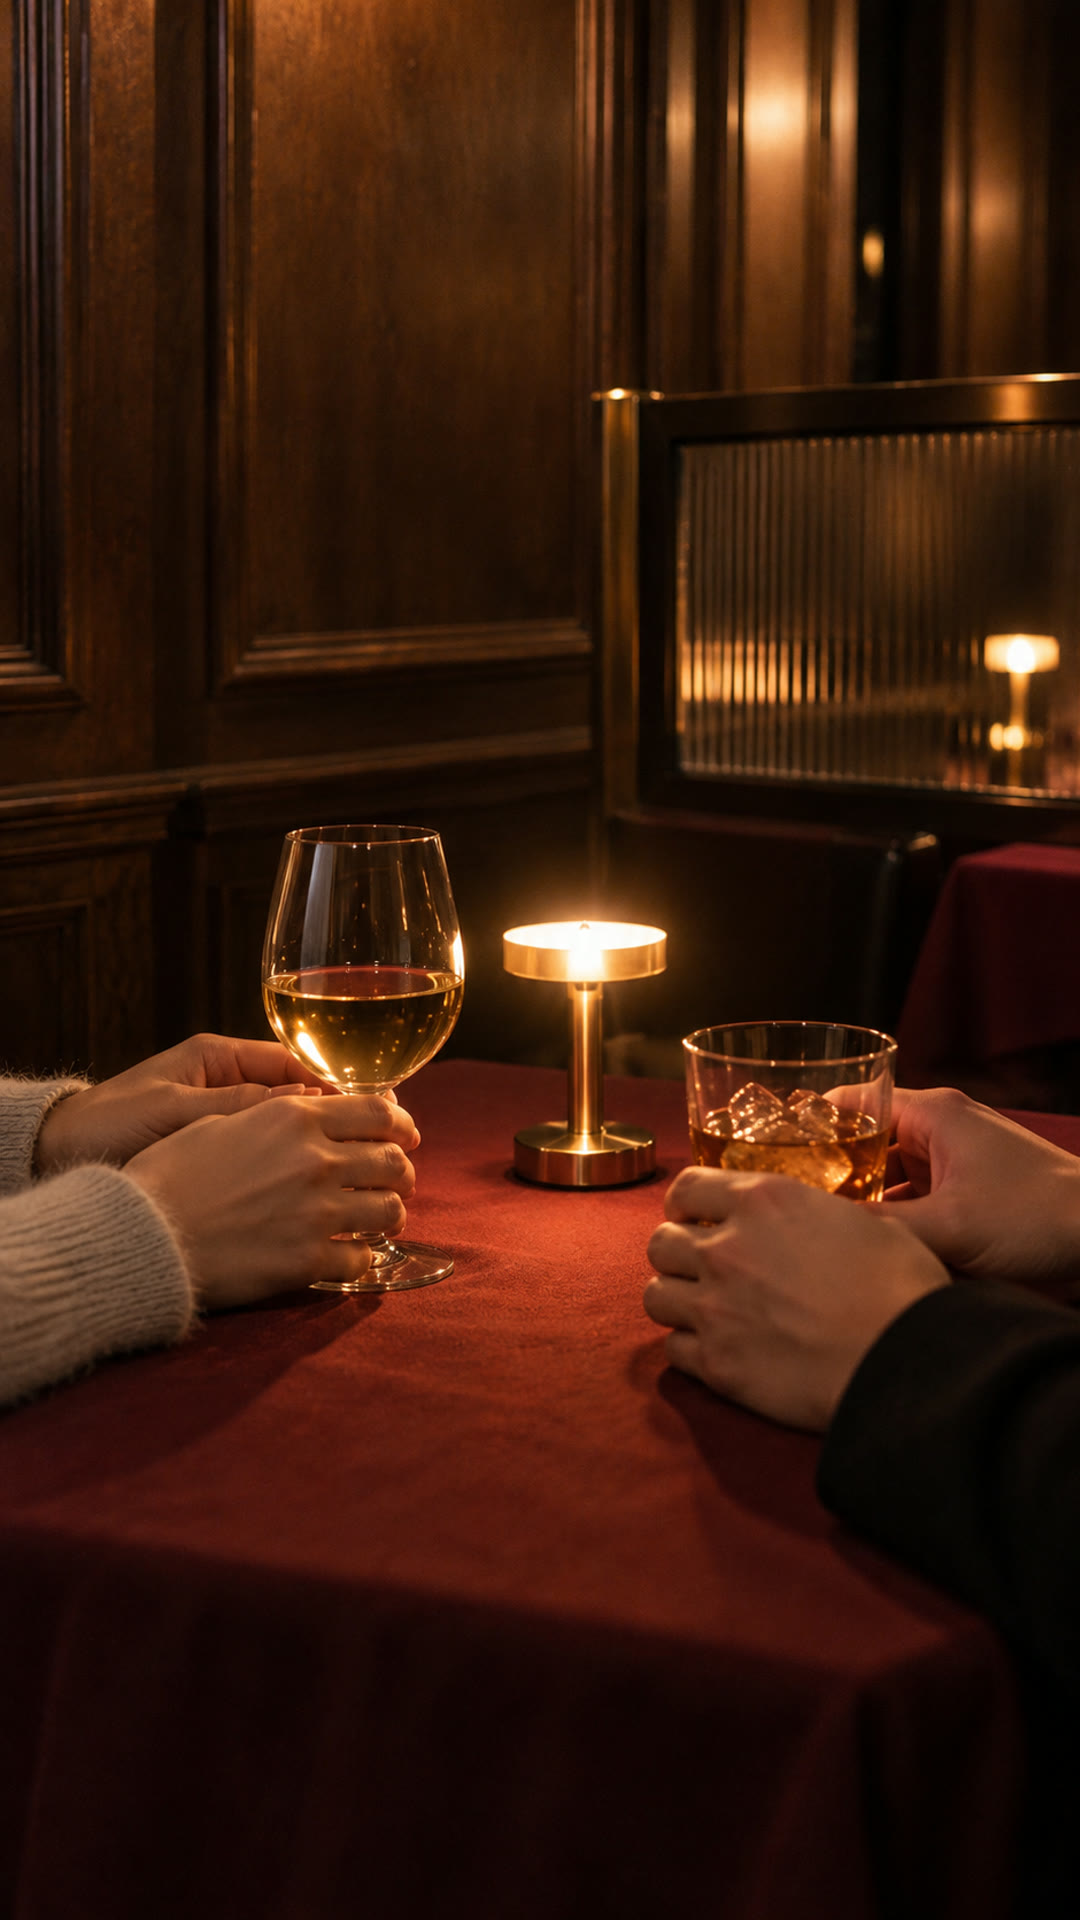
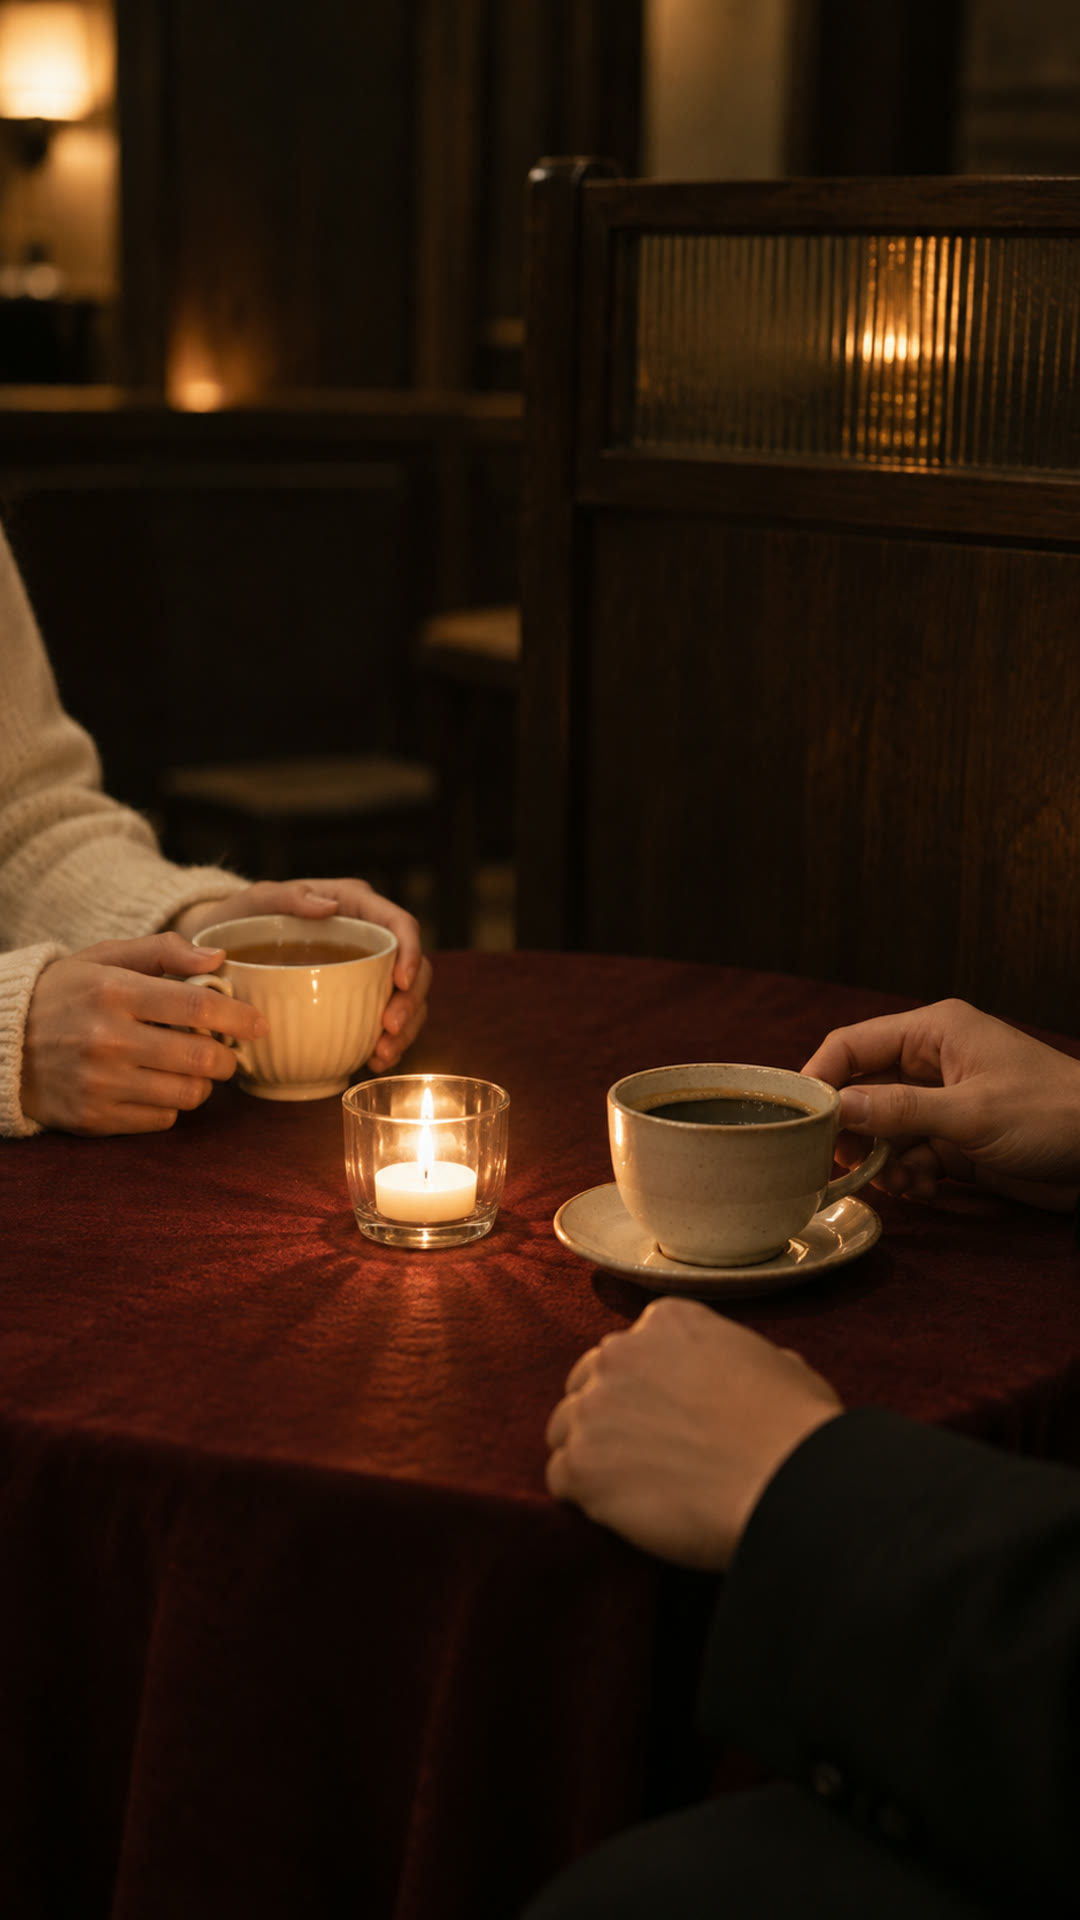
reels: 운영 정보 반영(10분·번호 호칭·커피/티·주소 비공개), 금요일 취소석 무료체험단 초청, 댓글 유도 CTA, 특별 릴스 2개
- brand-facts: 합정역 1분 거리, 10분 대화, 남자 1호 호칭, 주류 없음, 준비물·자격, 금지 표현 추가
- 10/26·11/2 주 대본 사실 수정, 금요일을 초청 영상으로 교체
- 술잔 생성 사진 삭제, 생성 프롬프트에 주류 금지, --scenes 옵션
- 얼굴 큰 사진 자동 배정 제외, 주마다 사진 시작점 변경
- deliver-local: 폴더 이름 지정, 옛 파일 정리

diff --git a/reels/tools/gen-images.js b/reels/tools/gen-images.js
@@ -1,7 +1,7 @@
-// usage: node reels/tools/gen-images.js <count> [--out assets/images/sevenstars/ai]
+// usage: node reels/tools/gen-images.js <count> [--out assets/images/sevenstars/ai] [--scenes hands,candle]
 // Codex CLI(이미지 생성)로 실제 공간 사진(모자이크본)을 참고해 새 세로 사진을 만든다.
 // 결과는 1080×1920 JPG로 맞춰 assets/images/sevenstars/ai/ 에 저장된다 → render.js가 실제 사진과 섞어 쓴다.
-// 만든 뒤에는 반드시 Read로 한 장씩 열어 보고, 얼굴·글자·로고·이상한 손/물건이 있으면 지운다(SKILL.md 10장).
+// 만든 뒤에는 반드시 Read로 한 장씩 열어 보고, 얼굴·글자·로고·술(잔·병)·이상한 손/물건이 있으면 지운다(SKILL.md 10장).
 // 필요: npm i -g @openai/codex, Codex 로그인(~/.codex/auth.json), ffmpeg
 const fs = require('fs');
 const path = require('path');
@@ -11,20 +11,21 @@ const ROOT = path.resolve(__dirname, '../..');
 const args = process.argv.slice(2);
 const opt = (k, d) => { const i = args.indexOf(k); return i >= 0 ? args[i + 1] : d; };
 const COUNT = Number(args[0] || 4);
+const PICK = opt('--scenes', null) ? opt('--scenes').split(',') : null; // 장면 이름(SCENES의 첫 칸)을 골라 만들 때
 const OUT = path.resolve(ROOT, opt('--out', 'assets/images/sevenstars/ai'));
 const REAL_DIR = path.join(ROOT, 'assets/images/sevenstars');
 const REAL = fs.readdirSync(REAL_DIR).filter(f => /\.jpe?g$/i.test(f)).sort();
 
 /* 실제 공간에 있는 것만 장면으로 쓴다. 시즌 장식처럼 실제로 없는 것은 넣지 않는다(사실 규칙, SKILL.md 5-4) */
 const SCENES = [
-  ['table', '2인 테이블 하나를 가까이서. 테이블보 위 캔들과 잔 두 개, 마주 놓인 의자 두 개'],
+  ['table', '2인 테이블 하나를 가까이서. 테이블보 위 캔들과 커피잔 두 개, 마주 놓인 의자 두 개'],
   ['partition', '테이블과 테이블 사이 가림막이 보이는 구도. 가림막이 옆 테이블만 가리고, 같은 테이블의 두 자리는 서로 마주 보는 배치'],
   ['candle', '캔들 불빛을 아주 가까이서. 배경은 우드톤 벽과 흐릿한 조명 보케'],
   ['hall', '홀 전체를 살짝 높은 곳에서. 여러 2인 테이블이 줄지어 있고 각 테이블에 캔들'],
   ['notes', '테이블 위에 접힌 작은 쪽지 카드와 펜, 캔들. 쪽지에 글자는 보이지 않게'],
   ['chairs', '빈 의자 두 개가 테이블을 사이에 두고 마주 보는 장면, 낮은 각도'],
   ['light', '벽 조명과 우드 패널, 어두운 공간에 따뜻한 빛이 번지는 분위기 컷'],
-  ['hands', '테이블 위 두 사람의 손과 잔만 보이는 장면(얼굴·몸은 화면 밖), 캔들 빛'],
+  ['hands', '테이블 위 두 사람의 손과 커피잔·찻잔만 보이는 장면(얼굴·몸은 화면 밖), 캔들 빛'],
 ];
 
 function prompt(scene) {
@@ -35,6 +36,7 @@ function prompt(scene) {
     `구도: ${scene[1]}.`,
     '사람 얼굴은 절대 넣지 마라(사람이 필요하면 손·어깨만, 흐릿하게). 글자, 숫자, 로고, 워터마크, 간판도 넣지 마라.',
     '크리스마스 트리 같은 시즌 장식이나 원본에 없는 큰 소품은 넣지 마라. 필름 카메라로 찍은 듯 자연스럽게.',
+    '이 공간은 술을 팔지 않는다(커피·티만). 와인잔, 위스키잔, 맥주, 술병, 칵테일처럼 술로 보이는 것은 절대 넣지 마라. 잔이 필요하면 커피잔·찻잔·물잔만.',
     '만든 이미지를 현재 폴더에 gen.png 로 저장하고, 저장한 파일 경로만 마지막 줄에 출력해.',
   ].join('\n');
 }
@@ -45,7 +47,7 @@ const stamp = new Date().toISOString().slice(0, 10).replace(/-/g, '');
 const made = [];
 const start = Number(stamp) % SCENES.length;
 for (let i = 0; i < COUNT; i++) {
-  const scene = SCENES[(start + i) % SCENES.length];
+  const scene = (PICK && SCENES.find(s => s[0] === PICK[i % PICK.length])) || SCENES[(start + i) % SCENES.length];
   const ref = path.join(REAL_DIR, REAL[(start + i) % REAL.length]);
   const work = path.join(tmp, String(i));
   fs.mkdirSync(work);

diff --git a/reels/render.js b/reels/render.js
@@ -44,7 +44,11 @@ let WEEK = 0;
 const PHOTO_DIR = path.join(ROOT, 'assets/images/sevenstars');
 const jpgs = dir => fs.existsSync(dir) ? fs.readdirSync(dir).filter(f => /\.jpe?g$/i.test(f)).sort() : [];
 /* real (mosaicked) photos + Codex-generated ones in ai/, interleaved so a 2-photo video gets one of each */
-const REAL = jpgs(PHOTO_DIR), AI = jpgs(path.join(PHOTO_DIR, 'ai')).map(f => 'ai/' + f);
+/* 얼굴(모자이크)이 크게 나와 글자 뒤에서 지저분해 보이는 사진은 자동 배정에서 빼고, 대본에서 지정할 때만 쓴다 */
+const MANUAL_ONLY = ['couple-closeup.jpg', 'couple-table.jpg'];
+const ALL_REAL = jpgs(PHOTO_DIR), AI = jpgs(path.join(PHOTO_DIR, 'ai')).map(f => 'ai/' + f);
+const REAL = ALL_REAL.filter(f => !MANUAL_ONLY.includes(f));
+const ALL_PHOTOS = [...ALL_REAL, ...AI];
 const PHOTOS = [];
 for (let i = 0; i < Math.max(REAL.length, AI.length); i++) { if (AI[i]) PHOTOS.push(AI[i]); if (REAL[i]) PHOTOS.push(REAL[i]); }
 const PHOTO_TYPES = ['cover', 'steps', 'info', 'reviews', 'quote'];
@@ -52,10 +56,10 @@ const PHOTO_TYPES = ['cover', 'steps', 'info', 'reviews', 'quote'];
    so the same photo doesn't repeat inside a week and the cycle continues week to week */
 function assignPhotos(scripts) {
   const forcedOf = s => (Array.isArray(s.photos) && s.photos.length ? s.photos : s.photo ? [s.photo] : [])
-    .filter(p => PHOTOS.includes(p)).slice(0, 2);
+    .filter(p => ALL_PHOTOS.includes(p)).slice(0, 2);
   const forced = new Set(scripts.flatMap(forcedOf));
   const used = new Set();
-  let c = WEEK * 10;
+  let c = WEEK * 7; // 사진 수(대개 10장 안팎)와 나누어떨어지지 않는 수라야 주마다 시작점이 바뀐다
   return scripts.map(s => {
     const slots = s.slides.filter(sl => PHOTO_TYPES.includes(sl.type) && sl.photo !== null).length;
     const k = Math.min(slots >= 2 ? 2 : 1, PHOTOS.length);

diff --git a/reels/deliver-local.js b/reels/deliver-local.js
@@ -1,4 +1,4 @@
-// usage: node reels/deliver-local.js <weekDir> <renderOutDir>
+// usage: node reels/deliver-local.js <weekDir> <renderOutDir> [폴더이름]   (폴더이름 기본값: "<월요일날짜> 주")
 // 렌더 결과의 MP4·txt만 config.local_output_root/<월요일날짜> 주 폴더로 복사하고 개수를 확인한다(SKILL.md 12장).
 // 성공하면 weeks/<월요일날짜>/DELIVERED 에 저장 경로를 적는다. 출력 마지막 줄: 저장 경로.
 const fs = require('fs');
@@ -14,7 +14,7 @@ if (!root || !fs.existsSync(root)) {
   console.log(`FAIL 저장 폴더 없음: "${root}" → 결과는 ${outDir} 에 그대로 둠`);
   process.exit(1);
 }
-const dest = path.join(root, `${monday} 주`);
+const dest = path.join(root, process.argv[4] || `${monday} 주`);
 fs.mkdirSync(dest, { recursive: true });
 const missing = [];
 for (const base of scripts) {
@@ -29,5 +29,8 @@ if (missing.length || got.length !== scripts.length * 2) {
   console.log(`FAIL ${got.length}/${scripts.length * 2}개, 없음: ${missing.join(', ')}`);
   process.exit(1);
 }
+// 다시 전달할 때 대본에서 빠진(이름이 바뀐) 옛 영상·캡션은 지운다
+const stale = fs.readdirSync(dest).filter(f => /\.(mp4|txt)$/.test(f) && !got.includes(f));
+stale.forEach(f => fs.rmSync(path.join(dest, f)));
 fs.writeFileSync(path.join(weekDir, 'DELIVERED'), dest + '\n');
-console.log(`OK   ${got.length}개 복사\n${dest}`);
+console.log(`OK   ${got.length}개 복사${stale.length ? `, 옛 파일 ${stale.length}개 삭제: ${stale.join(', ')}` : ''}\n${dest}`);

diff --git a/reels/validate.js b/reels/validate.js
@@ -33,7 +33,9 @@ function check(file) {
     if (sl && sl.title && String(sl.title).split(/<br\s*\/?>/i).length > 3) errs.push(`슬라이드 ${i}: 제목은 3줄 이하`);
   });
   const text = strings({ hook: s.hook, slides: s.slides, caption: s.caption }).join('\n');
-  for (const b of FACTS.banned_claims) if (text.includes(b)) errs.push(`금지 표현: "${b}"`);
+  // allowed_phrases(예: 무료체험)는 운영자가 승인한 표현이라 금지 표현 검사에서 뺀다
+  const checked = (FACTS.allowed_phrases || []).reduce((t, p) => t.split(p).join(''), text);
+  for (const b of FACTS.banned_claims) if (checked.includes(b)) errs.push(`금지 표현: "${b}"`);
   for (const m of text.matchAll(/[\d,]+\s*원/g)) {
     const p = m[0].replace(/\s/g, '');
     if (!FACTS.allowed_prices.includes(p)) errs.push(`brand-facts에 없는 가격: ${p}`);

diff --git a/reels/delivery-page.js b/reels/delivery-page.js
@@ -88,7 +88,7 @@ pre{white-space:pre-wrap;font-family:var(--font-body);font-size:13px;margin:0;co
       <p class="note">구글 드라이브 업로드가 안 돼서 이 페이지로 대신 전달합니다. 캡션 파일 내용은 각 카드에 있습니다.</p>
     </div>
     <div class="facts">
-      <span>장소</span><b>${esc(FACTS.location.address)} · ${esc(FACTS.location.short)}</b>
+      <span>장소</span><b>${esc(FACTS.location.short)}</b>
       <span>일정</span><b>${esc(FACTS.schedule.days)} ${esc(FACTS.schedule.times)}</b>
       <span>참가비</span><b>여 ${esc(FACTS.price.female)} · 남 ${esc(FACTS.price.male)} (정가 ${esc(FACTS.price.regular)})</b>
     </div>

diff --git a/reels/PROMPTS.md b/reels/PROMPTS.md
@@ -104,3 +104,11 @@ reels/SKILL.md 7장 '새 테마 추가' 순서대로 template.html THEMES, valid
 결과물 저장 방식을 <A 구글 드라이브 커넥터 / B PC 드라이브 동기화 폴더 "<경로>" / C GitHub>로 확정했어.
 reels/SKILL.md 12장과 15장, reels/config.json, reels/PROMPTS.md 2번을 그 방식 하나로 정리해서 커밋·푸시해.
 ```
+
+## 11. 특별 모집 릴스 (취소석·무료체험 등)
+
+```
+<이번 주말 여성 취소석 1자리> 모집 릴스를 만들어줘. 참고 문구: <...>. 조건은 <DM으로 안내>.
+reels/SKILL.md 13장 '특별 모집 릴스' 방식대로 reels/specials/<오늘날짜>/에 대본 → 검증 → 2fps 검수 → 30fps 렌더 →
+D:/세븐스타즈 릴스/<오늘날짜> 특별 에 저장하고, 커밋·푸시 후 Slack DM으로 알려줘.
+```
